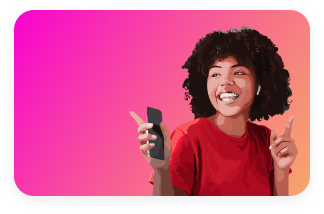
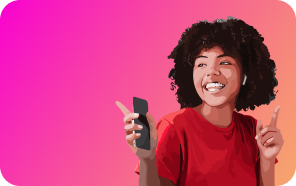
add package images

diff --git a/lib/widgets/package_widget.dart b/lib/widgets/package_widget.dart
@@ -39,9 +39,10 @@ class PackageWidget extends StatelessWidget {
       width: 296,
       height: 186,
       decoration: BoxDecoration(
+        color: Colors.black,
         image: DecorationImage(
           image: AssetImage('assets/images/packages/$image'), // Replace with your SVG file path
-          fit: BoxFit.cover, // Adjust to your needs (e.g., BoxFit.fill)
+          fit: BoxFit.fill, // Adjust to your needs (e.g., BoxFit.fill)
         ),
         borderRadius: BorderRadius.circular(20),
       ),
